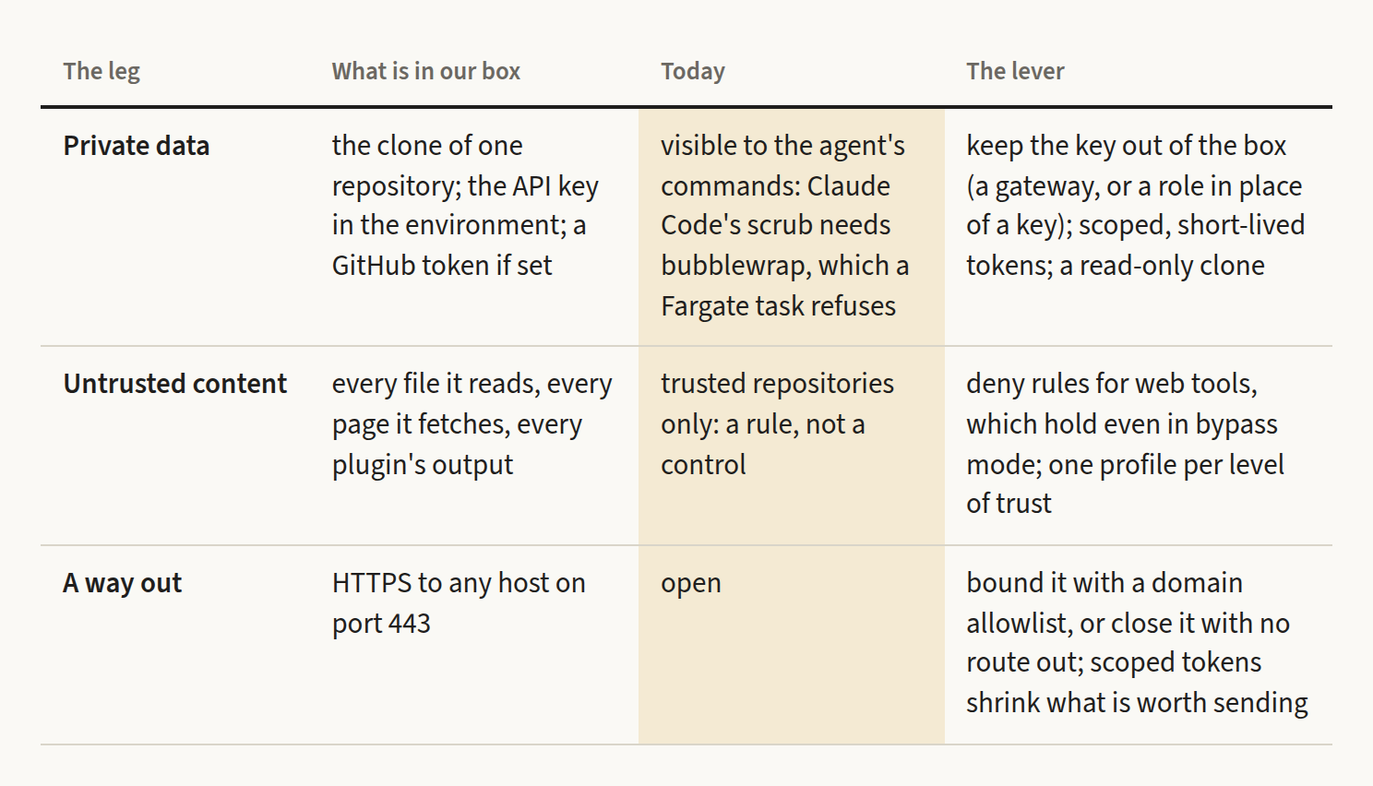
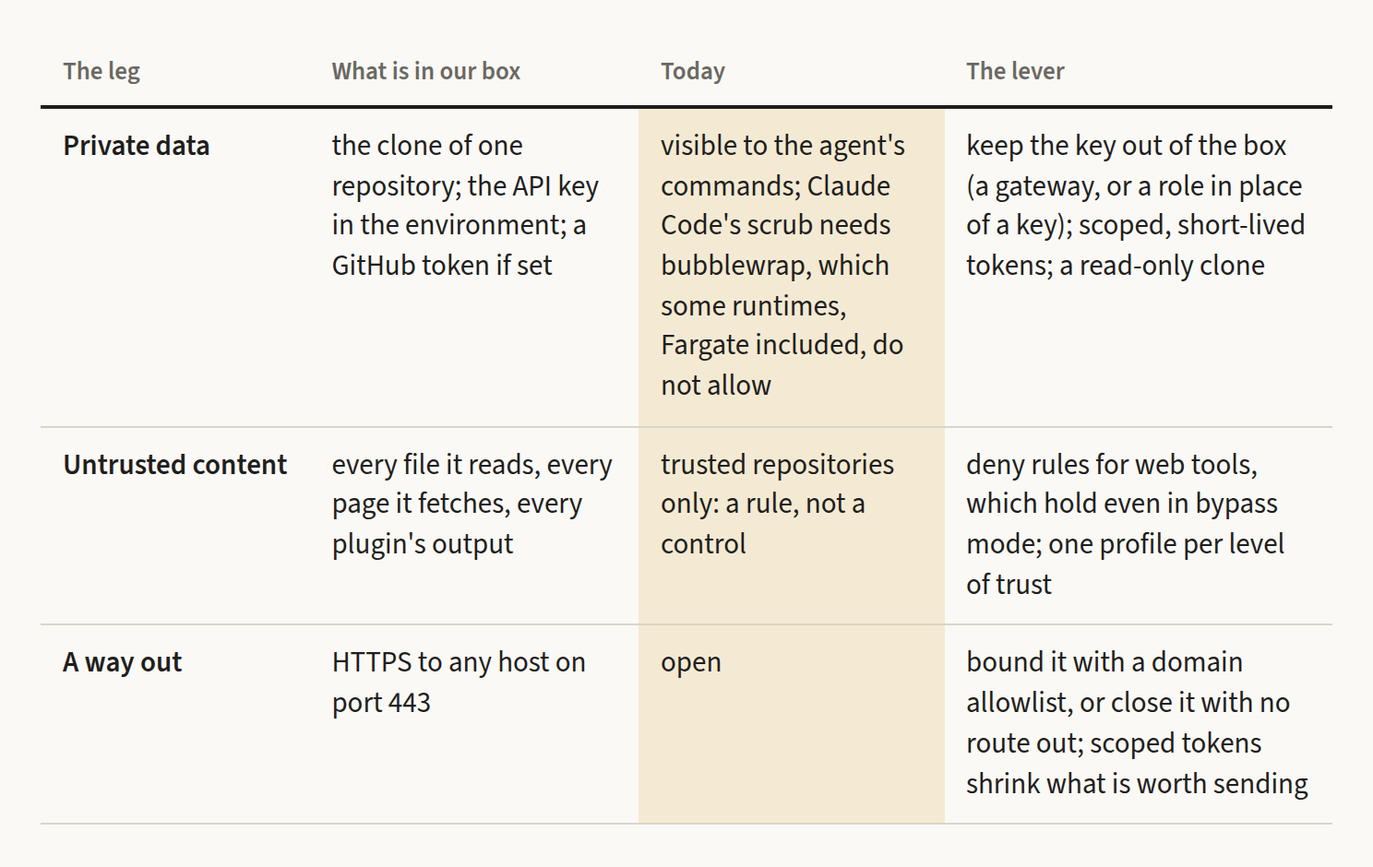
docs(articles): the box article presents the setup and its limits, runtime-neutral, with the new header
- subtitle and wording: limits a box does not cover on its own (no "leaks"), each with
  its status and what to do; the setup described as it is
- the image runs anywhere Docker runs; ECS Fargate is the reference deployment and the
  source of every measurement, named where it matters (Firecracker microVM, the bubblewrap
  result, the numbers) and nowhere in the title, subtitle or headings
- limit 1 says which runtimes can run Claude Code's scrub and points to
  scripts/run/check-scrub-local.sh for a Docker host; the subtitle keeps "scrubbed" out
  until that check has shown it working (a hidden comment holds the gate)
- Try it uses commands that exist, including the local check
- new header image (the bubble-wrapped Sand Genius), figures b1, b3 and b4 relabelled

The first article's Try it now uses the real claude-ecs-base commands and no longer
points to a SETUP.md that does not exist.

Claude-Session: https://claude.ai/code/session_01EmG14EyCxmBJhJ5PsEeZFk

diff --git a/articles/the-box-is-only-half-the-boundary.md b/articles/the-box-is-only-half-the-boundary.md
@@ -1,9 +1,11 @@
 # The Box Is Only Half the Boundary
 
-*How we sandbox Claude Code on AWS Fargate, what sixteen disposable runs measured, and the three leaks a box does not close on its own.*
+*How we sandboxed and bubble wrapped Claude Code, what sixteen disposable runs measured, and the limits a box does not cover on its own.*
 
-![A figure made of glowing sand presses its hand against the glass wall of a shipping crate labelled "Sand Genius", "High value intellectual asset" and "Export only", on a dock at sunset. A panel on the crate reads "A brilliant mind shouldn't stay confined."](images/header-sand-genius-in-a-crate.jpg)
-*Sand Genius, crated for shipping. AI-generated illustration.*
+![A figure made of glowing sand, wrapped in bubble wrap and cushioned by foam blocks, sits inside a glass-walled shipping crate on a dock at sunset and presses one hand against the glass. The crate is labelled "Sand Genius", "High value intellectual asset", "Fragile" and "Export only"; a panel along its base reads "A brilliant mind shouldn't stay confined."](images/header-sand-genius-bubble-wrapped.jpg)
+*Sand Genius, bubble wrapped for shipping. AI-generated illustration.*
+
+<!-- SUBTITLE GATE (not shown on the page): the subtitle says "sandboxed and bubble wrapped". Add "and scrubbed" only after scripts/run/check-scrub-local.sh has shown Claude Code's scrub working on a runtime (key hidden from a command, 0 /proc files); on Fargate it cannot run. Delete this comment then. -->
 
 ---
 
@@ -11,7 +13,7 @@ The crate in the picture carries the objection every team hears the first time i
 
 It is a fair point. An agent that has to ask before every `rm`, every `curl` and every `pip install` is not much of an agent, so teams switch the permission prompts off. Then comes the question that matters: with the prompts gone, what is left between the agent and everything else?
 
-We switched ours off too. The image in **[claude-docker-public](https://github.com/fibtecltd/claude-docker-public)** runs Claude Code with `bypassPermissions`, headless, on AWS Fargate. This post is about what makes that defensible, what we measured to check it, and the three leaks a box does not close on its own. Anthropic's own documentation is blunt about the problem underneath: bypass mode "offers no protection against prompt injection or unintended actions." A sandbox can't fix that. It can only decide how far the damage reaches.
+We switched ours off too. The image in **[claude-docker-public](https://github.com/fibtecltd/claude-docker-public)** runs Claude Code with `bypassPermissions`, headless. It runs anywhere Docker runs; our reference deployment is one task per run on AWS ECS Fargate, and every measurement below comes from it. This post is about what makes the setup defensible, what we measured to check it, and the three limits a box does not cover on its own. Anthropic's own documentation is blunt about the problem underneath: bypass mode "offers no protection against prompt injection or unintended actions." A sandbox can't fix that. It can only decide how far the damage reaches.
 
 ## Three questions every agent sandbox answers
 
@@ -27,49 +29,47 @@ There is a fourth question, *what can it be told?*, and no sandbox answers it. O
 
 ## What we built
 
-One image, and one Fargate task per run. A run is an `ecs run-task` call; between runs the only thing we pay for is image storage.
+One image, and one task per run. In our reference deployment a run is an `ecs run-task` call on Fargate, and between runs the only thing we pay for is image storage.
 
-- **A fresh box every time.** Fargate runs each task on its own Firecracker microVM, so a run does not share a kernel with another run and nothing survives it.
+- **A fresh box every time.** On Fargate each task runs on its own Firecracker microVM, so a run does not share a kernel with another run and nothing survives it. On a plain Docker host a run shares the host's kernel (see the comparison below).
 - **A non-root user, nothing executed at start.** Claude Code refuses to start in bypass mode as root anyway.
 - **No volumes and no host mounts.** The only code in the box is a shallow clone of the one repository named in the request.
 - **A task role with no permissions.** Anything inside can sign AWS requests as the task role, and the role is allowed nothing.
-- **No inbound rule, and outbound HTTPS only.** One security group, one rule. HTTPS is open to any host by default and can be restricted to an allowlist of hosts when a job needs it (leak 2 below).
+- **No inbound rule, and outbound HTTPS only.** One security group, one rule. HTTPS is open to any host by default and can be restricted to an allowlist of hosts when a job needs it (limit 2 below).
 - **A pinned supply chain.** Plugins are fetched at the commits in a lock file at build time, owned by root and read-only for the agent. There is no marketplace call at run time, and CI fails the build if a credential is left in the image or its history.
 - **Caps on every run.** `--max-turns` and `--max-budget-usd` are required: limits belong to the task, not to the image.
 
-![One task, one box: the request names a profile and a repository; the Fargate task holds a non-root agent, a fresh clone, read-only pinned plugins and an empty role; outbound is HTTPS only, to any host or to an allowlist if needed, and nothing connects in.](images/b1-one-task-one-box.png)
+![One task, one box: the request names a profile and a repository; the task holds a non-root agent, a fresh clone, read-only pinned plugins and an empty role; outbound is HTTPS only, to any host or to an allowlist if needed, and nothing connects in.](images/b1-one-task-one-box.png)
 *What is inside the box, and what crosses its edge. Everything on the left of the line is there on purpose.*
 
 ## Five things we tried from the inside
 
-We do not trust a diagram of a sandbox, so the test harness (`scripts/deploy/ecs-in-docker.sh runs`) makes the agent try things from inside the box and prints what happened. On 2026-10-14 we made sixteen runs. Two of them were guardrail probes: one has the agent run shell commands against the role and the network, the other hits a spend cap on purpose.
+We do not trust a diagram of a sandbox, so the test harness (`scripts/deploy/ecs-in-docker.sh runs`) makes the agent try things from inside the box and prints what happened. On 2026-10-14 we made sixteen runs on our reference deployment. Two of them were guardrail probes: one has the agent run shell commands against the role and the network, the other hits a spend cap on purpose.
 
 ![Five probes and what came back: the task role is shown by sts get-caller-identity, s3 ls is denied, HTTPS to the internet returns 200, plain HTTP on port 80 times out after 8 seconds, and a USD 0.05 spend cap stopped the run at USD 0.068.](images/b2-five-probes.png)
 *Five probes from inside a running task.*
 
 The first two are the good news. The agent's AWS identity is the task role, and the role can do nothing: `s3 ls` is denied. A hijacked session cannot reach the account around it.
 
-The next two are the honest news. HTTPS to the open internet returns 200. Plain HTTP on port 80 times out after eight seconds. The box blocks protocols, not destinations: a security group cannot say "only `api.anthropic.com`". We come back to that below.
+The next two mark the limits. HTTPS to the open internet returns 200. Plain HTTP on port 80 times out after eight seconds. The box blocks protocols, not destinations: a security group cannot say "only `api.anthropic.com`". We come back to that below.
 
 The fifth is a lesson in what a cap is. We set a USD 0.05 budget and the run stopped, correctly, with `error_max_budget_usd`, at USD 0.068. A cap ends the run after the turn that crosses it, not to the cent, so treat it as a ceiling with slack. A cold one-word run on Sonnet 5.5 already costs more than the cap we used for the test (USD 0.0955 for the first call, USD 0.0077 for each later one, because the first call pays to write the prompt cache), so set caps above the starting context, or they will stop even a trivial task.
 
 All sixteen runs behaved as designed. That is a statement about the design. It is not a statement about safety.
 
-What disposability costs: about 32 seconds to a running container (30 to 36 across the sixteen runs, roughly 13 of provisioning and 15 of image pull, with no warm start), so a one-word task takes about a minute from command to exit. For an agent that works for twenty minutes, that is noise. For a quick check, it is the whole job. One sample each, one account, one region: read these as orders of magnitude.
+What disposability costs on our reference deployment: about 32 seconds to a running container (30 to 36 across the sixteen runs, roughly 13 of provisioning and 15 of image pull, with no warm start), so a one-word task takes about a minute from command to exit. For an agent that works for twenty minutes, that is noise. For a quick check, it is the whole job. One sample each, one account, one region: read these as orders of magnitude.
 
-## Three leaks a box does not close on its own
+## Three limits a box does not cover on its own
 
-**1. The key is in the box.** The API key arrives from Secrets Manager as an environment variable, and with permission prompts off, every command the agent runs inherits it. We checked from inside a task: a command's environment lists `ANTHROPIC_API_KEY`, and `AWS_CONTAINER_CREDENTIALS_RELATIVE_URI`, the address the task role's credentials come from. Anthropic's dev-container page states the general case plainly: with permissions bypassed, a container does not prevent "exfiltrating anything accessible inside the container, including the Claude Code credentials stored in `~/.claude`."
+**1. The key is visible to the agent's commands.** The API key reaches the container as an environment variable, and with permission prompts off, every command the agent runs inherits it. We checked from inside a task: a command's environment lists `ANTHROPIC_API_KEY`, and `AWS_CONTAINER_CREDENTIALS_RELATIVE_URI`, the address the task role's credentials come from. Anthropic's dev-container page states the general case plainly: with permissions bypassed, a container does not prevent "exfiltrating anything accessible inside the container, including the Claude Code credentials stored in `~/.claude`."
 
-Claude Code has an opt-in for exactly this, `CLAUDE_CODE_SUBPROCESS_ENV_SCRUB=1`. It removes credentials from the environment of the commands Claude Code starts, and on Linux it runs them in their own PID namespace through `bubblewrap`, so a command cannot read the parent's environment through `/proc` either. The Claude Code process keeps the key, because it needs it to call the API. The scrub recognises a credential by the name of the variable or the shape of its value, and it leaves `GITHUB_TOKEN` and `GH_TOKEN` in place so that `gh` keeps working.
+Claude Code has an opt-in for this, `CLAUDE_CODE_SUBPROCESS_ENV_SCRUB=1`, and the image carries what it needs: `bubblewrap`, with the switch off by default. Switched on, it removes credentials from the environment of the commands Claude Code starts, and on Linux it runs them in their own PID namespace through `bubblewrap`, so a command cannot read the parent's environment through `/proc` either. The Claude Code process keeps the key, because it needs it to call the API. The scrub recognises a credential by the name of the variable or the shape of its value, and it leaves `GITHUB_TOKEN` and `GH_TOKEN` in place so that `gh` keeps working.
 
-It does not work on Fargate. `bubblewrap` has to create a user namespace, and a Fargate task refuses: `bwrap: No permissions to create new namespace`, for a user namespace alone, for a PID namespace with a fresh `/proc`, and for one that reuses the existing `/proc`, although the kernel allows namespaces. There is no fallback either: with the scrub on, Claude Code runs every command sandboxed, and in our run it blocked all of them. So the image ships with the scrub off, and the key stays visible to the agent's commands. Where a runtime lets `bubblewrap` create namespaces, such as a VM or a local container that allows it, the scrub is a per-run switch and worth turning on.
+Whether the switch can be used depends on the runtime. `bubblewrap` has to create a user namespace, and some runtimes do not allow that to an unprivileged container. A Fargate task is one of them: `bwrap: No permissions to create new namespace`, for a user namespace alone, for a PID namespace with a fresh `/proc`, and for one that reuses the existing `/proc`, although the kernel allows namespaces. With the scrub on and no sandbox to run in, Claude Code does not fall back to running commands unsandboxed: in our run it blocked all of them. So on Fargate the image keeps the scrub off, and the key stays visible to the agent's commands. On a plain Docker host the answer depends on the host's seccomp and capability settings. `scripts/run/check-scrub-local.sh` runs the probe three ways there (Docker's default flags, `--cap-add SYS_ADMIN`, which loosens the container's own restrictions, and a control with the scrub off) and writes a report.
 
-On Fargate the way to close this leak is to keep the key out of the box: a gateway that holds it, or, on Bedrock, a role in place of a key (the closed design below says what that costs). The harness reports what a command can see of the key in every guardrail run, with two commands: one prints `key-hidden` or `key-VISIBLE` for the command's own environment, the other counts the `/proc/*/environ` files the command can read that contain the key's name. Neither prints the key, and both build their output at run time, so an agent that quotes the command in its answer cannot match by accident.
+Where the scrub cannot run, keep the key out of the box instead: a gateway that holds it, or, on Bedrock, a role in place of a key (the closed design below says what that costs). The harness reports what a command can see of the key in every guardrail run, with two commands: one prints `key-hidden` or `key-VISIBLE` for the command's own environment, the other counts the `/proc/*/environ` files the command can read that contain the key's name. Neither prints the key, and both build their output at run time, so an agent that quotes the command in its answer cannot match by accident. Even where the scrub works, the agent itself still holds the key. A command cannot read it, but a hijacked session can still spend it through the agent's own model calls, so the cap limits that.
 
-Even where the scrub works, the agent itself still holds the key. A command cannot read it, but a hijacked session can still spend it through the agent's own model calls, so the cap limits that.
-
-**2. Anywhere on 443.** Simon Willison's "lethal trifecta" is an agent that has private data, reads untrusted content and can communicate outward. Our box has all three. The private data is the clone and the keys. The untrusted content is every file the agent reads and every page it fetches. The way out is port 443, to anywhere. Anthropic recommends bypass mode "in isolated environments like containers, VMs, or dev containers without internet access"; ours has internet access, because the agent has to reach the model.
+**2. Outbound HTTPS goes anywhere by default.** Simon Willison's "lethal trifecta" is an agent that has private data, reads untrusted content and can communicate outward. Our box has all three. The private data is the clone and the keys. The untrusted content is every file the agent reads and every page it fetches. The way out is port 443, to anywhere. Anthropic recommends bypass mode "in isolated environments like containers, VMs, or dev containers without internet access"; ours has internet access, because the agent has to reach the model.
 
 ![The three legs of the lethal trifecta against our box: private data (the clone and the keys), untrusted content (every file it reads), and a way out (HTTPS to anywhere), each with what we do today and the lever that would narrow it.](images/b3-the-trifecta-ledger.png)
 *The three legs, what we do about each today, and the lever that would narrow it.*
@@ -78,7 +78,7 @@ Outbound HTTPS is open by default, and it can be restricted when a job needs it:
 
 **Bounded.** Put the tasks in private subnets and send their outbound traffic through something that understands hostnames. AWS Network Firewall can hold a domain allowlist: for HTTPS it reads the hostname from the TLS SNI field, for HTTP from the Host header, and it drops every request for a domain not on the list. A forward proxy does the same job, and Claude Code honours `HTTPS_PROXY`. The list can be short: per Anthropic's network requirements, a headless run with an API key needs `api.anthropic.com` (the sign-in hosts are for OAuth, and the telemetry hosts are optional). Add `github.com` for the clone and whatever a task installs, and that is two or three names. Two warnings. `egress=nat`, the mode our stack already has, filters nothing on its own: a NAT gateway translates addresses, it does not read names. And a short list is not a closed channel. If `github.com` is on it and the token can push, a repository is a place to put data. DNS-level filtering is weaker still, because a connection to a bare IP address never asks DNS.
 
-**Closed.** No route out at all: private subnets with no internet gateway and no NAT. Everything the task needs then has to be inside the VPC. AWS's ECS guide lists the interface endpoints a Fargate task needs when it has no internet route (ECR for the image, CloudWatch Logs for the logs, Secrets Manager for secrets), and the image layers come through an S3 gateway endpoint. The model has to be inside too. Claude Code can run against Amazon Bedrock, which offers a `bedrock-runtime` interface endpoint over PrivateLink. On Bedrock, Claude Code uses the default AWS credential chain, ECS task credentials included, so the API key goes away and the task role is allowed `bedrock:InvokeModel` on the models you pick.
+**Closed.** No route out at all: private subnets with no internet gateway and no NAT. Everything the task needs then has to be inside the VPC. AWS's ECS guide lists the interface endpoints a task needs when it has no internet route (ECR for the image, CloudWatch Logs for the logs, Secrets Manager for secrets), and the image layers come through an S3 gateway endpoint. The model has to be inside too. Claude Code can run against Amazon Bedrock, which offers a `bedrock-runtime` interface endpoint over PrivateLink. On Bedrock, Claude Code uses the default AWS credential chain, ECS task credentials included, so the API key goes away and the task role is allowed `bedrock:InvokeModel` on the models you pick.
 
 That swap trades a secret for a role, and it is not free: our own `sts` probe showed that a command in the box can sign requests as the task role. A role is scoped and short-lived, which beats a long-lived key, but a hijacked session can still use it. The rest of the bill: no `git clone` from GitHub (bake the code into the image, or fetch it from S3), no `pip install` or web fetch unless you mirror what you need, no WebSearch tool (not available on Bedrock), a model that must be enabled in your account and region, and interface endpoints billed by the hour per Availability Zone, plus per GB. And closed means closed to the internet, not to AWS: an S3 endpoint will talk to any bucket unless its endpoint policy says otherwise.
 
@@ -87,13 +87,13 @@ That swap trades a secret for a role, and it is not free: our own `sts` probe sh
 
 Which one? Closed if the job fits it: a task that works on code already in the image and talks only to the model. Bounded if the agent has to reach the outside, and then with the allowlist written down and the token scoped to one repository. An allowlist narrows the way out. Scoped tokens narrow what is worth sending.
 
-**3. The prompt and the output are data at rest.** The prompt, the repository name and any `--env` values are part of the run request, so they are visible to anyone who can call `ecs:DescribeTasks` and they appear in CloudTrail. Everything the container prints goes to CloudWatch for 30 days. A workload under a zero-retention rule needs different plumbing: pass a pointer (a path, an object key), not the data, and write results to a store with its own expiry.
+**3. The prompt and the output are data at rest.** In our reference deployment the prompt, the repository name and any `--env` values are part of the run request, so they are visible to anyone who can call `ecs:DescribeTasks` and they appear in CloudTrail. Everything the container prints goes to CloudWatch for 30 days. A workload under a zero-retention rule needs different plumbing: pass a pointer (a path, an object key), not the data, and write results to a store with its own expiry.
 
 ## Which sandbox for which job
 
 Anthropic's guide to choosing a sandbox environment lists the options. The short version, with ours next to them:
 
-![A comparison of five ways to isolate a coding agent: the built-in sandboxed Bash tool, the sandbox runtime, a dev container, a Fargate task per run, and a dedicated VM, each with what it isolates, what it leaves open and when to use it.](images/b4-which-sandbox.png)
+![A comparison of five ways to isolate a coding agent: the built-in sandboxed Bash tool, the sandbox runtime, a dev container, a task per run on a microVM, and a dedicated VM, each with what it isolates, what it leaves open and when to use it.](images/b4-which-sandbox.png)
 *Five ways to box an agent. None of them answers "what can it be told?"*
 
 Our local `docker compose` route is a plain container on your machine, which shares your kernel, so it belongs in the same bucket as a dev container: fine for repositories you trust, wrong for code you do not.
@@ -111,18 +111,23 @@ Our local `docker compose` route is a plain container on your machine, which sha
 
 And the rule under all eight: trusted repositories only. The box limits the damage of a bad session. It does not make an untrusted input safe.
 
-## Try it, and tell us where it leaks
+## Try it
 
 ```bash
-scripts/deploy/ecs-in-docker.sh deploy
-scripts/deploy/ecs-in-docker.sh runs
+git clone https://github.com/fibtecltd/claude-docker-public && cd claude-docker-public
+cp .env.example .env                                  # add your ANTHROPIC_API_KEY
+docker compose build claude-ecs-base
+docker compose run --rm claude-ecs-base -p "say hi"   # the box on your machine
+scripts/run/check-scrub-local.sh                      # can your Docker run Claude Code's scrub?
+scripts/deploy/ecs-in-docker.sh deploy                # the reference deployment on AWS
+scripts/deploy/ecs-in-docker.sh runs                  # the probes above, with a report
 ```
 
-You need Docker and AWS credentials, not the AWS CLI. The first command builds and smoke-tests the image, checks the account, deploys the stack and pushes the image; the second runs the probes above, including what a command can see of the API key, and prints a report. The runbook, with every timing and cost, is in **[claude-docker-public](https://github.com/fibtecltd/claude-docker-public)**. `SECURITY.md` lists the known limitations, and this post adds to the list on purpose. If you find another leak, open an issue, or write to the address in `SECURITY.md` if it is a vulnerability.
+The first four commands need only Docker and an Anthropic key. The check script runs the key probe three ways (at most USD 0.90) and saves a report. The last two need AWS credentials, not the AWS CLI: `deploy` builds and smoke-tests the image, checks the account, deploys the stack and pushes the image, and `runs` runs the probes above, including what a command can see of the API key, and prints a report. The runbook, with every timing and cost, is in **[claude-docker-public](https://github.com/fibtecltd/claude-docker-public)**. `SECURITY.md` lists the known limitations, and this post adds to the list on purpose. If you find something we missed, open an issue; for a security issue, write to the address in `SECURITY.md`.
 
 ## Sources
 
-The measurements are ours: sixteen runs on 2026-10-14, then two guardrail runs and a diagnostic task on 2026-10-29, on one AWS account in one region, one sample each, with the scripts that made them and the timing table in the repository. Everything else comes from the pages below, which we checked on 29 October 2026.
+The measurements are ours: sixteen runs on 2026-10-14, then two guardrail runs and a diagnostic task on 2026-10-29, on one AWS account in one region (our reference deployment, ECS on Fargate), one sample each, with the scripts that made them and the timing table in the repository. Everything else comes from the pages below, which we checked on 29 October 2026.
 
 **Claude Code and Anthropic**
 

diff --git a/articles/the-sandbox-is-the-feature.md b/articles/the-sandbox-is-the-feature.md
@@ -45,11 +45,17 @@ This isn't scoped to a single codebase. The image is built once; which project i
 git clone https://github.com/fibtecltd/claude-docker-public
 cd claude-docker-public
 cp .env.example .env   # add your ANTHROPIC_API_KEY
-docker compose build --no-cache claude
-docker compose run --rm claude
+docker compose build claude-ecs-base
+docker compose run --rm claude-ecs-base -p "say hi"
 ```
 
-Read `SETUP.md` first. The permission-mode section isn't optional reading — it's the one part of this setup where "I skimmed it" is how people get surprised.
+To work on a project, bind-mount its folder (the path is yours to change) and start in it:
+
+```bash
+docker compose run --rm -v "$HOME/projects/my-repo:/workspace/my-repo" -w /workspace/my-repo claude-ecs-base
+```
+
+Read the README and `docs/runbook.md` first, section 6 (cost and safety) in particular. The permission-mode notes there aren't optional reading — it's the one part of this setup where "I skimmed it" is how people get surprised.
 
 ## License
 
